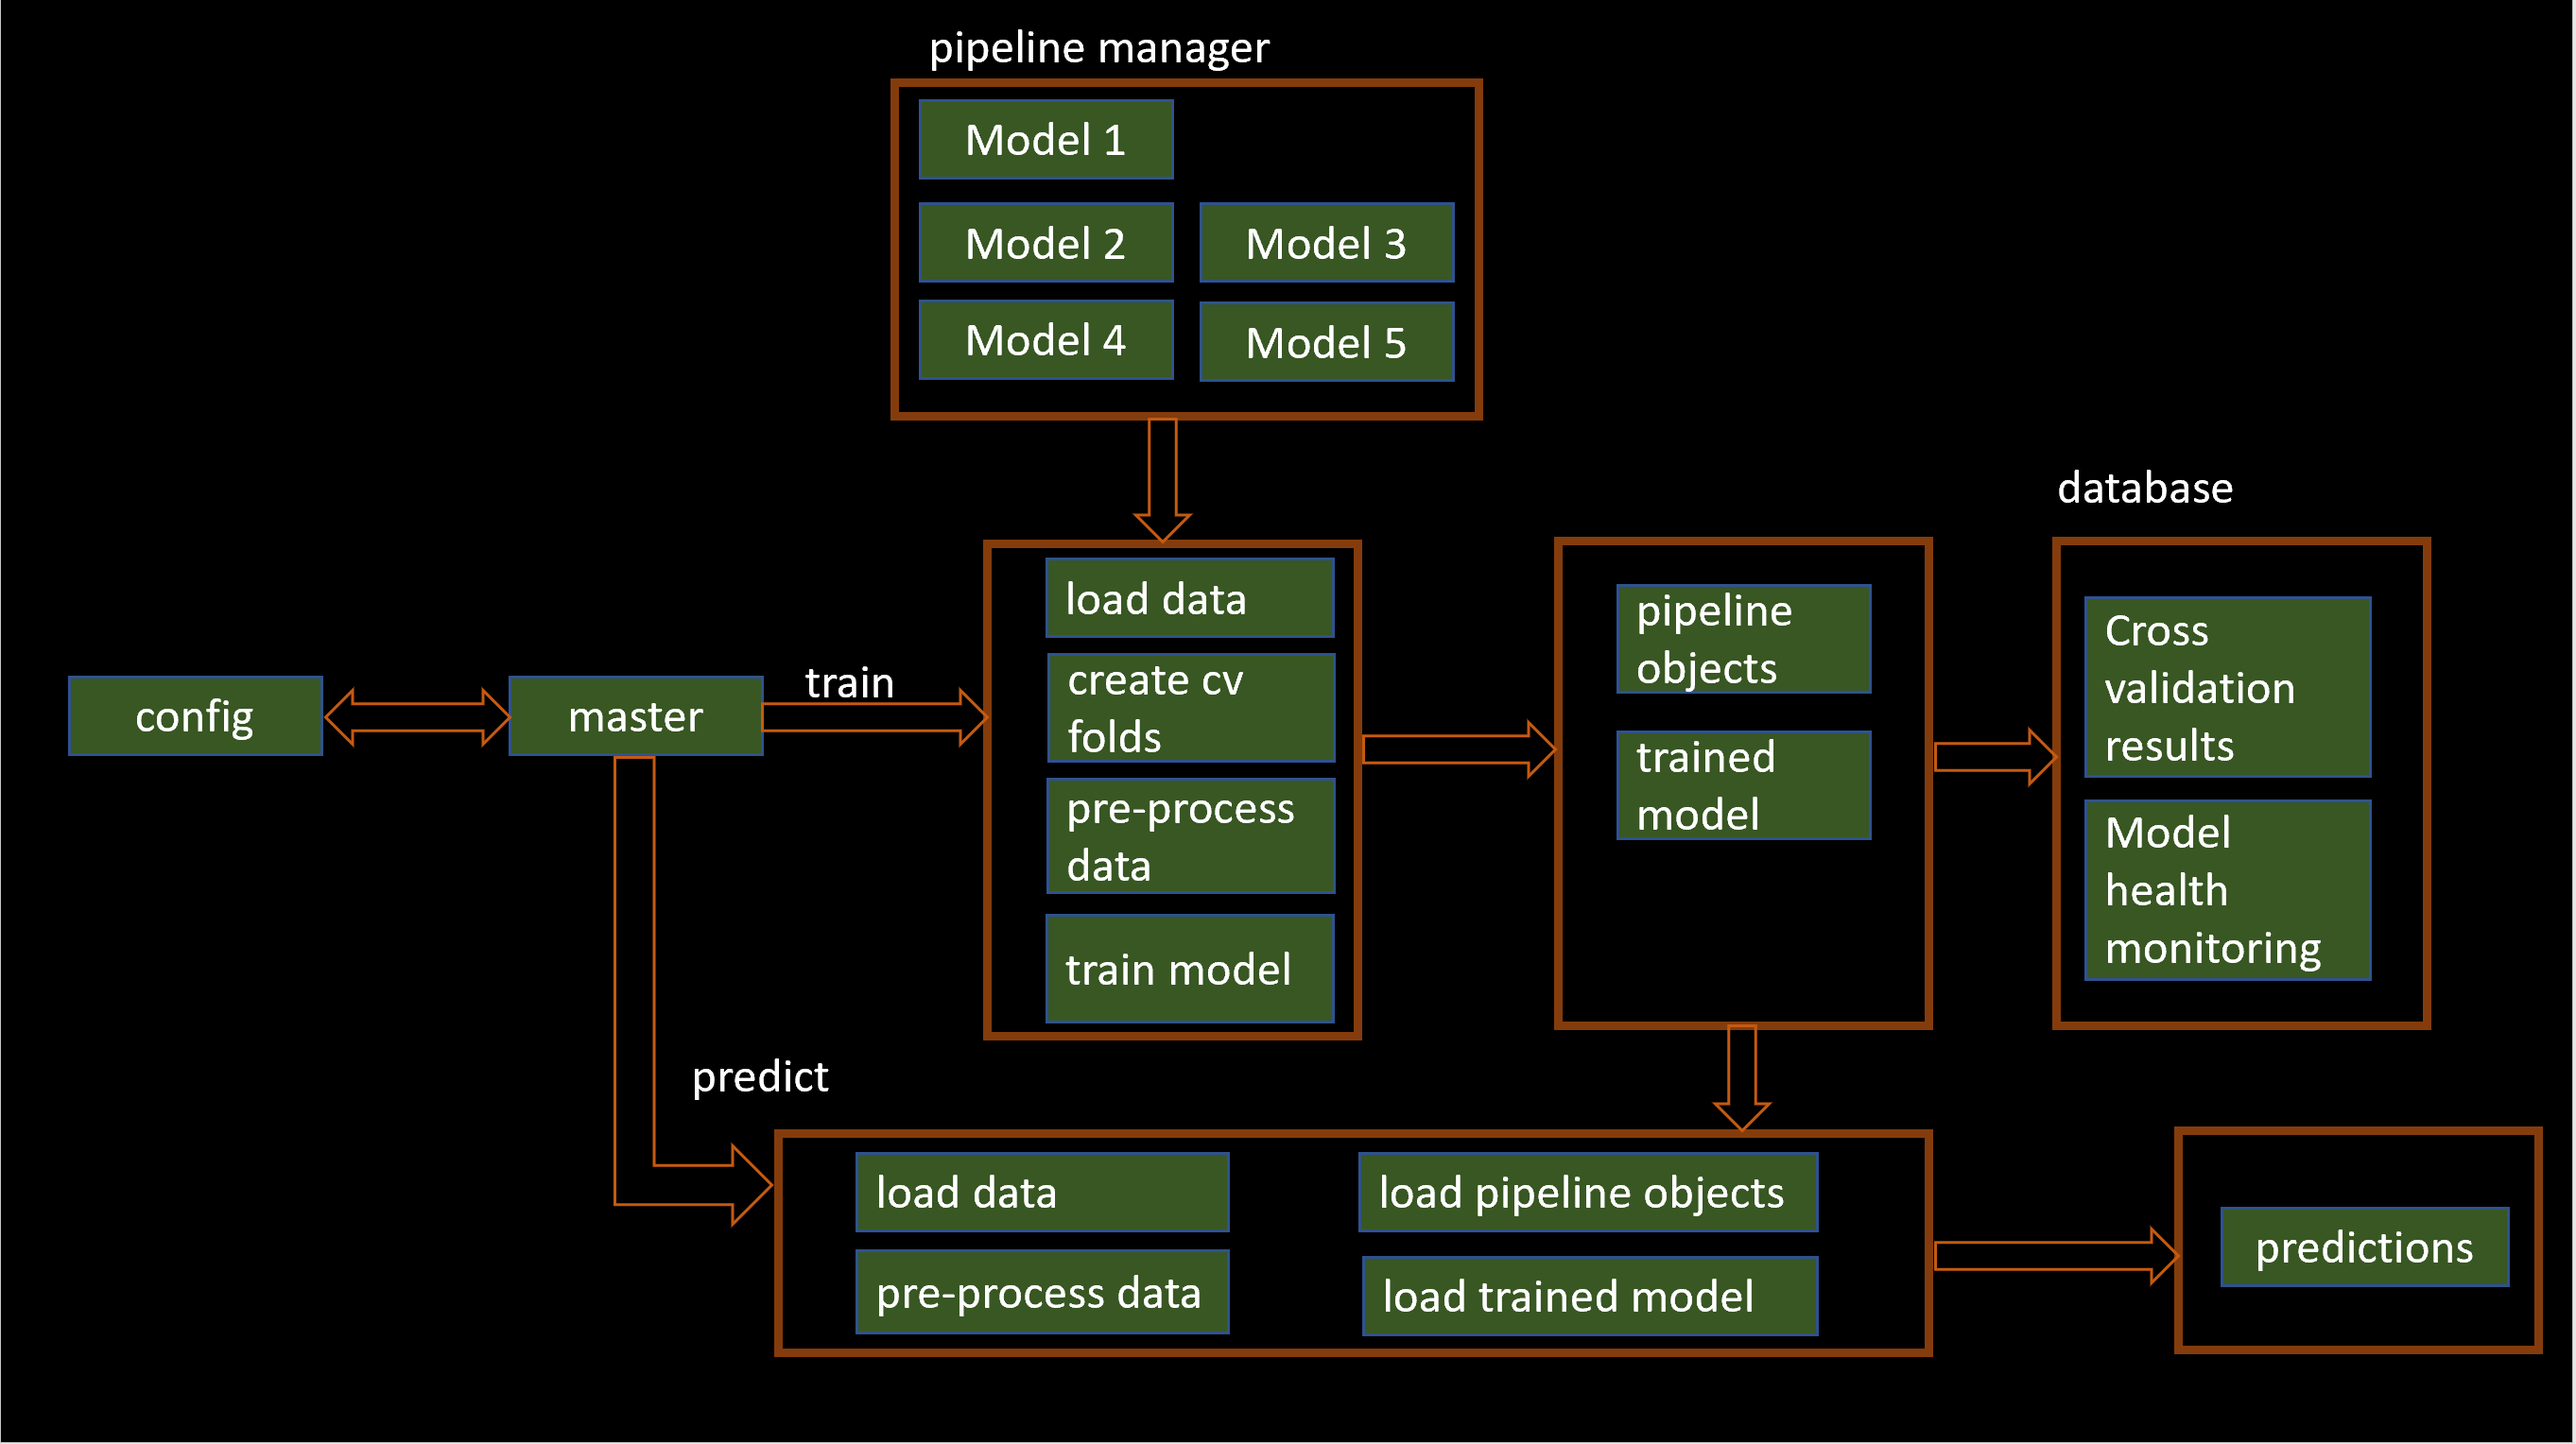
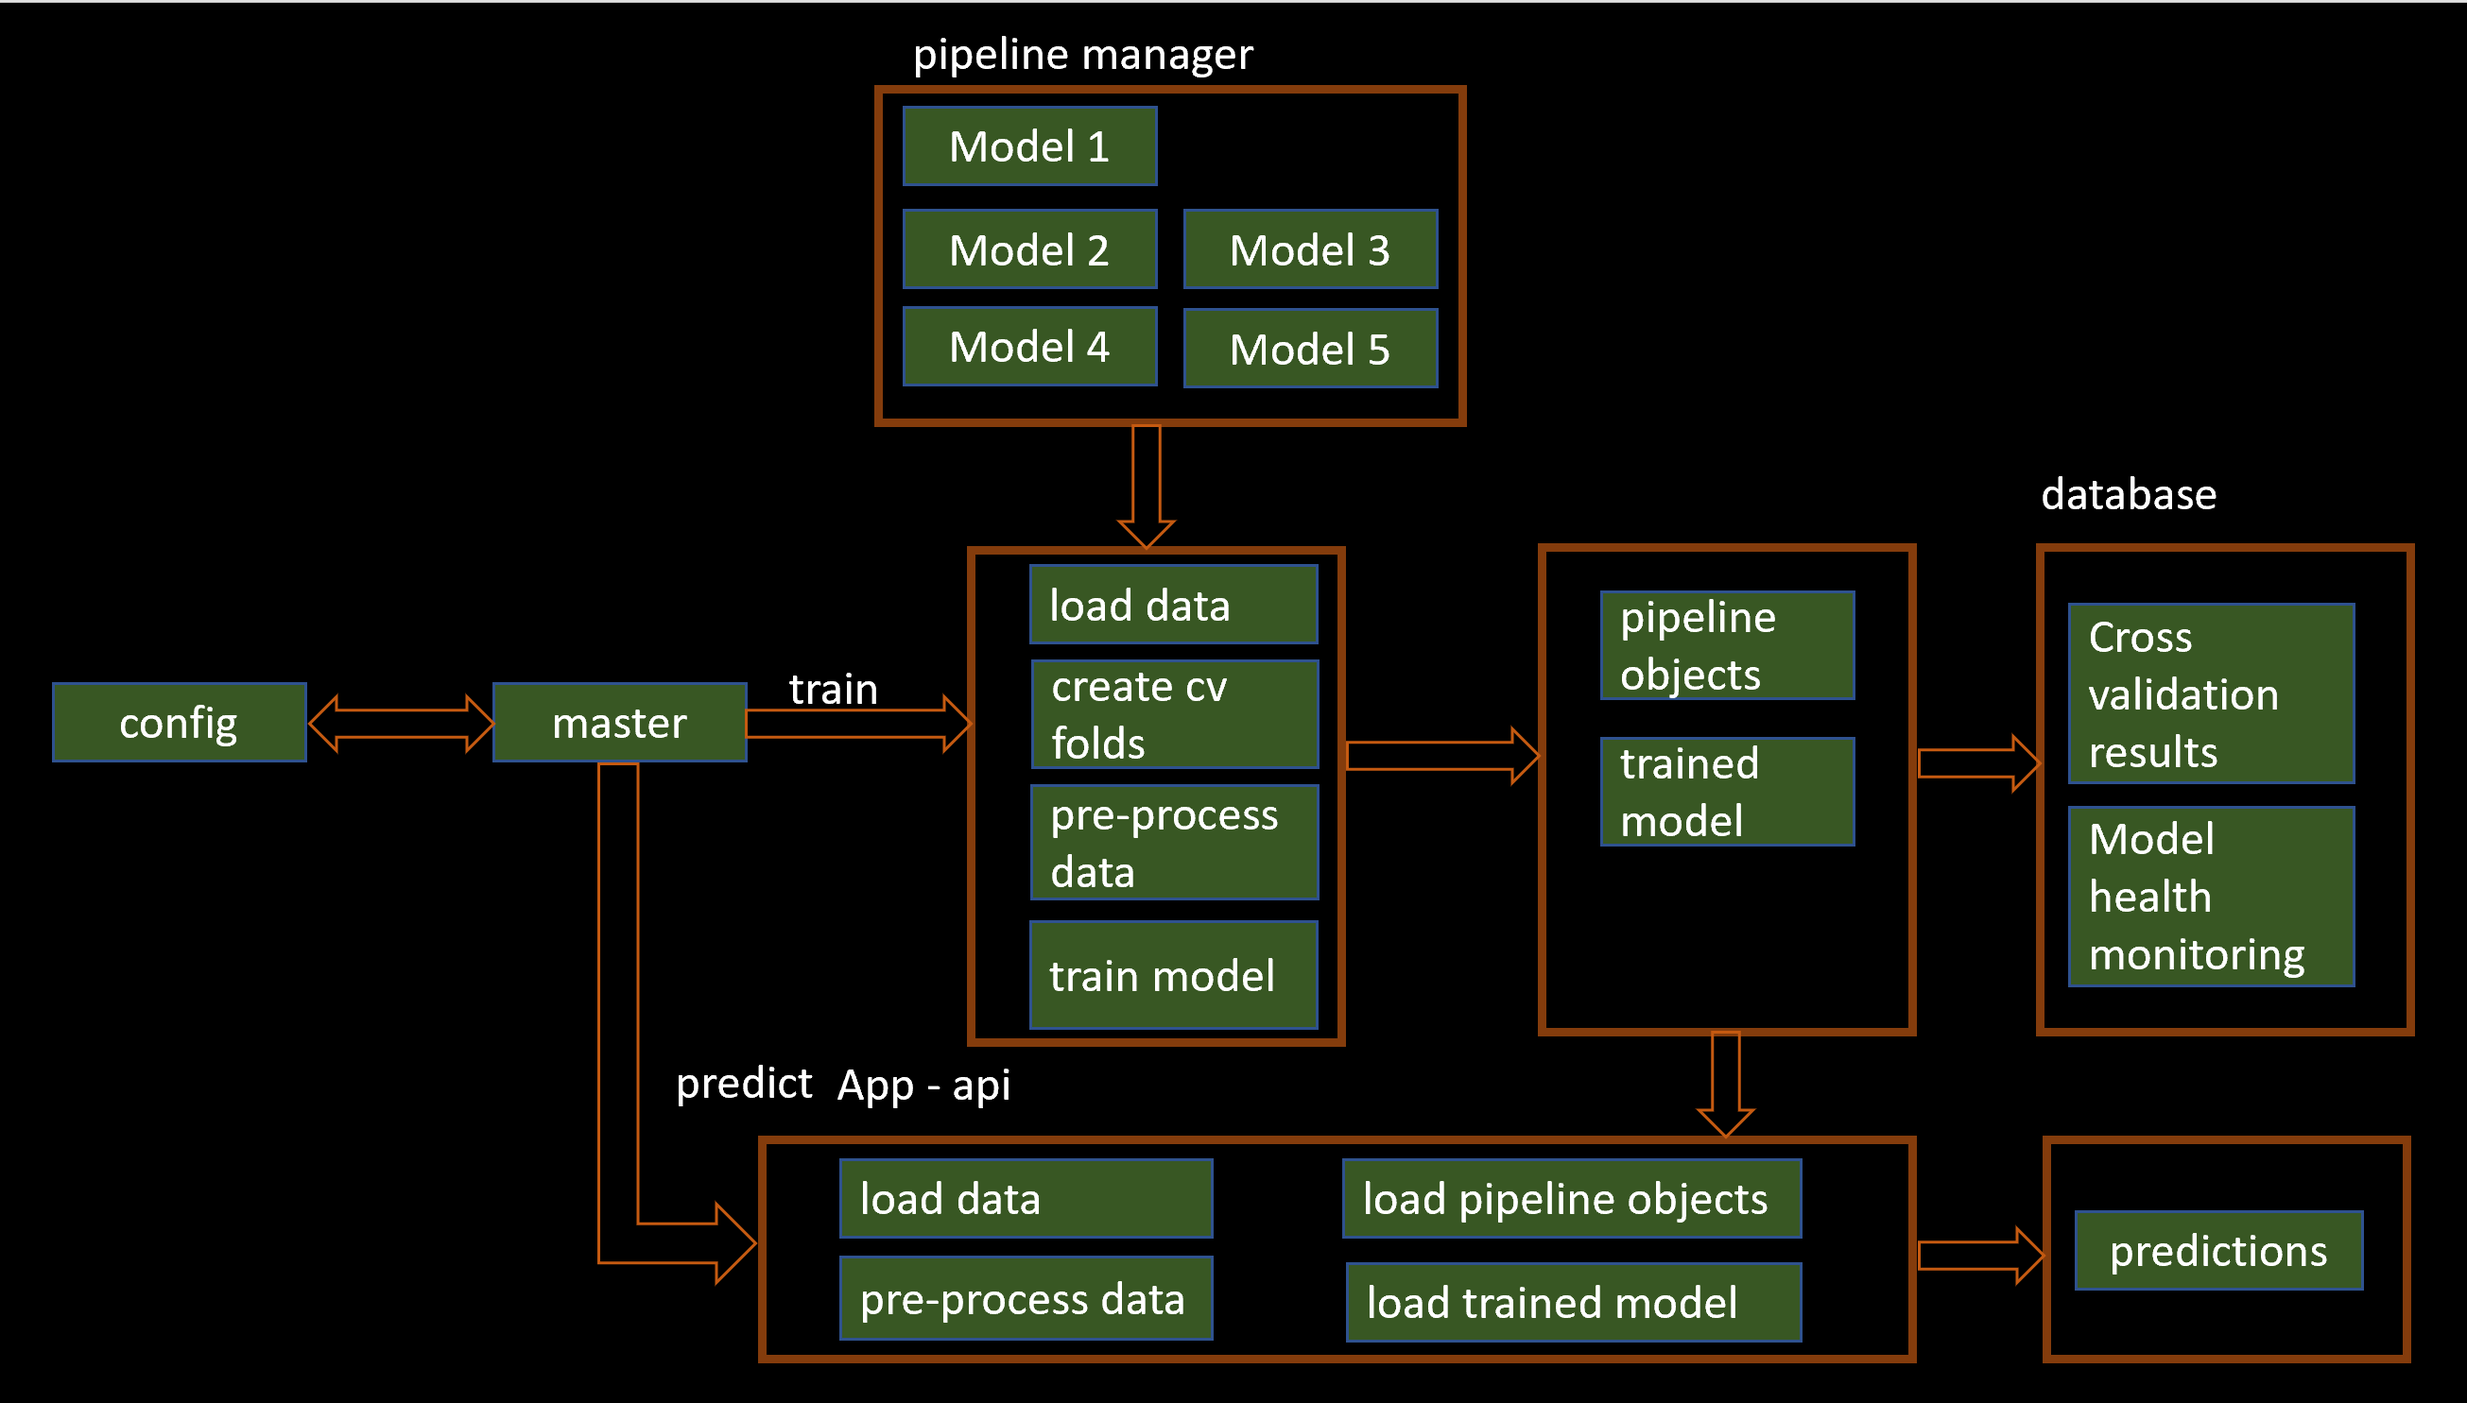
PoC - v_0.1 work in progress

Changed region(s): [[0.0, 0.0, 1.0, 1.0]]

diff --git a/templates/index.html b/templates/index.html
@@ -1,0 +1,5 @@
+<title>Customer Loyalty Demo</title>
+<form method="POST">
+    <input name="text">
+    <input type="submit">
+</form>

diff --git a/src/customer_rfm.py b/src/customer_rfm.py
@@ -4,6 +4,7 @@ from lifetimes.utils import calibration_and_holdout_data
 from lifetimes import GammaGammaFitter
 from lifetimes import BetaGeoFitter
 from sklearn.cluster import KMeans
+import pickle
 
 class customer_rfm():
     '''Customer loyalty RFM implementation using lifetimes package
@@ -92,21 +93,25 @@ class customer_rfm():
         self.transactions_holdout.fillna(0, inplace=True)
         return self.transactions_holdout
 
-    def frequency_clusters(self, transactions_holdout, n_clusters):
+    def frequency_clusters(self, config, transactions_holdout, n_clusters):
         """
         docstring
         """
-        kmeans = KMeans(n_clusters=n_clusters)
+        self.kmeans_model_path = config['parameters']['kmeans_model_path']
+        kmeans_cal = KMeans(n_clusters=n_clusters)
 
-        kmeans.fit(transactions_holdout[['frequency_cal']])
-        transactions_holdout['frequency_cluster'] = kmeans.predict(transactions_holdout[['frequency_cal']])
+        kmeans_cal.fit(transactions_holdout[['frequency_cal']])
+        transactions_holdout['frequency_cluster'] = kmeans_cal.predict(transactions_holdout[['frequency_cal']])
         
         transactions_holdout = self.customer_cluster('frequency_cluster', 'frequency_cal', transactions_holdout, True)
-  
-        kmeans = KMeans(n_clusters=n_clusters)
         
-        kmeans.fit(transactions_holdout[['frequency_holdout']])
-        transactions_holdout['frequency_holdout_cluster'] = kmeans.predict(transactions_holdout[['frequency_holdout']])        
+        with open(self.kmeans_model_path, 'wb') as handle:
+            pickle.dump(kmeans_cal, handle, protocol=pickle.HIGHEST_PROTOCOL)        
+        
+        kmeans_holdout = KMeans(n_clusters=n_clusters)
+        
+        kmeans_holdout.fit(transactions_holdout[['frequency_holdout']])
+        transactions_holdout['frequency_holdout_cluster'] = kmeans_holdout.predict(transactions_holdout[['frequency_holdout']])        
 
         transactions_holdout=self.customer_cluster('frequency_holdout_cluster', 'frequency_holdout', transactions_holdout, True)                
         

diff --git a/app.py b/app.py
@@ -1,0 +1,57 @@
+from __future__ import division, print_function
+# coding=utf-8
+import warnings
+warnings.filterwarnings("ignore")
+
+import pandas as pd
+import yaml as yaml
+import pickle
+
+# Flask utils
+from flask import Flask, redirect, url_for, request, render_template
+from werkzeug.utils import secure_filename
+from gevent.pywsgi import WSGIServer
+
+print("Processing : Loading configuration file")
+config = yaml.safe_load(open(
+    r"C:\Users\adepup\Documents\Prav-Development\Research\github\customer_loyalty\config\config.yaml"))
+n_clusters = config['parameters']['n_clusters']
+
+
+# Define a flask app
+app = Flask(__name__)
+
+kmeans_model_path = config['parameters']['kmeans_model_path']
+
+with open(kmeans_model_path, 'rb') as handle:
+    kmeans_cal = pickle.load(handle)   
+
+print('Model loaded. Check http://127.0.0.1:5000/')
+
+def model_predict(frequency, kmeans_cal):
+    cluster = kmeans_cal.predict((pd.DataFrame({'frequency_cal':[frequency]})))[0]
+    if cluster == 0:
+        customer = "cluster {} : Non Loyal Customer".format(cluster)
+    else:
+        customer = "cluster {} : Loyal Customer".format(cluster)
+    return customer
+
+@app.route('/', methods=['GET'])
+def index():
+    # Main page
+    return render_template('index.html')
+
+@app.route('/', methods=['GET', 'POST'])
+def upload():
+    if request.method == 'POST':
+        # Get the file from post request
+        frequency = request.form['text']
+
+        # Make prediction
+        result = model_predict(frequency, kmeans_cal)
+        
+        return result
+    return None
+
+if __name__ == '__main__':
+    app.run(debug=True)

diff --git a/master.py b/master.py
@@ -4,6 +4,7 @@ warnings.filterwarnings("ignore")
 
 import pandas as pd
 import yaml as yaml
+import pickle
 
 from src.customer_rfm import customer_rfm
 
@@ -12,11 +13,13 @@ config = yaml.safe_load(open(
     r"C:\Users\adepup\Documents\Prav-Development\Research\github\customer_loyalty\config\config.yaml"))
 n_clusters = config['parameters']['n_clusters']
 
-rfm = customer_rfm()     
-products = rfm.read_source_products_file(config)   
+rfm = customer_rfm() 
+    
+products = rfm.read_source_products_file(config)  
 
 transactions_holdout = rfm.transactions_rfm(config, products)
-transactions_holdout = rfm.frequency_clusters(transactions_holdout, n_clusters)
+
+transactions_holdout = rfm.frequency_clusters(config, transactions_holdout, n_clusters)
 
 confusion_matrix = pd.crosstab(transactions_holdout['frequency_cluster'], transactions_holdout['frequency_holdout_cluster'], rownames=['Actual'], colnames=['Predicted'])
 print(confusion_matrix)
